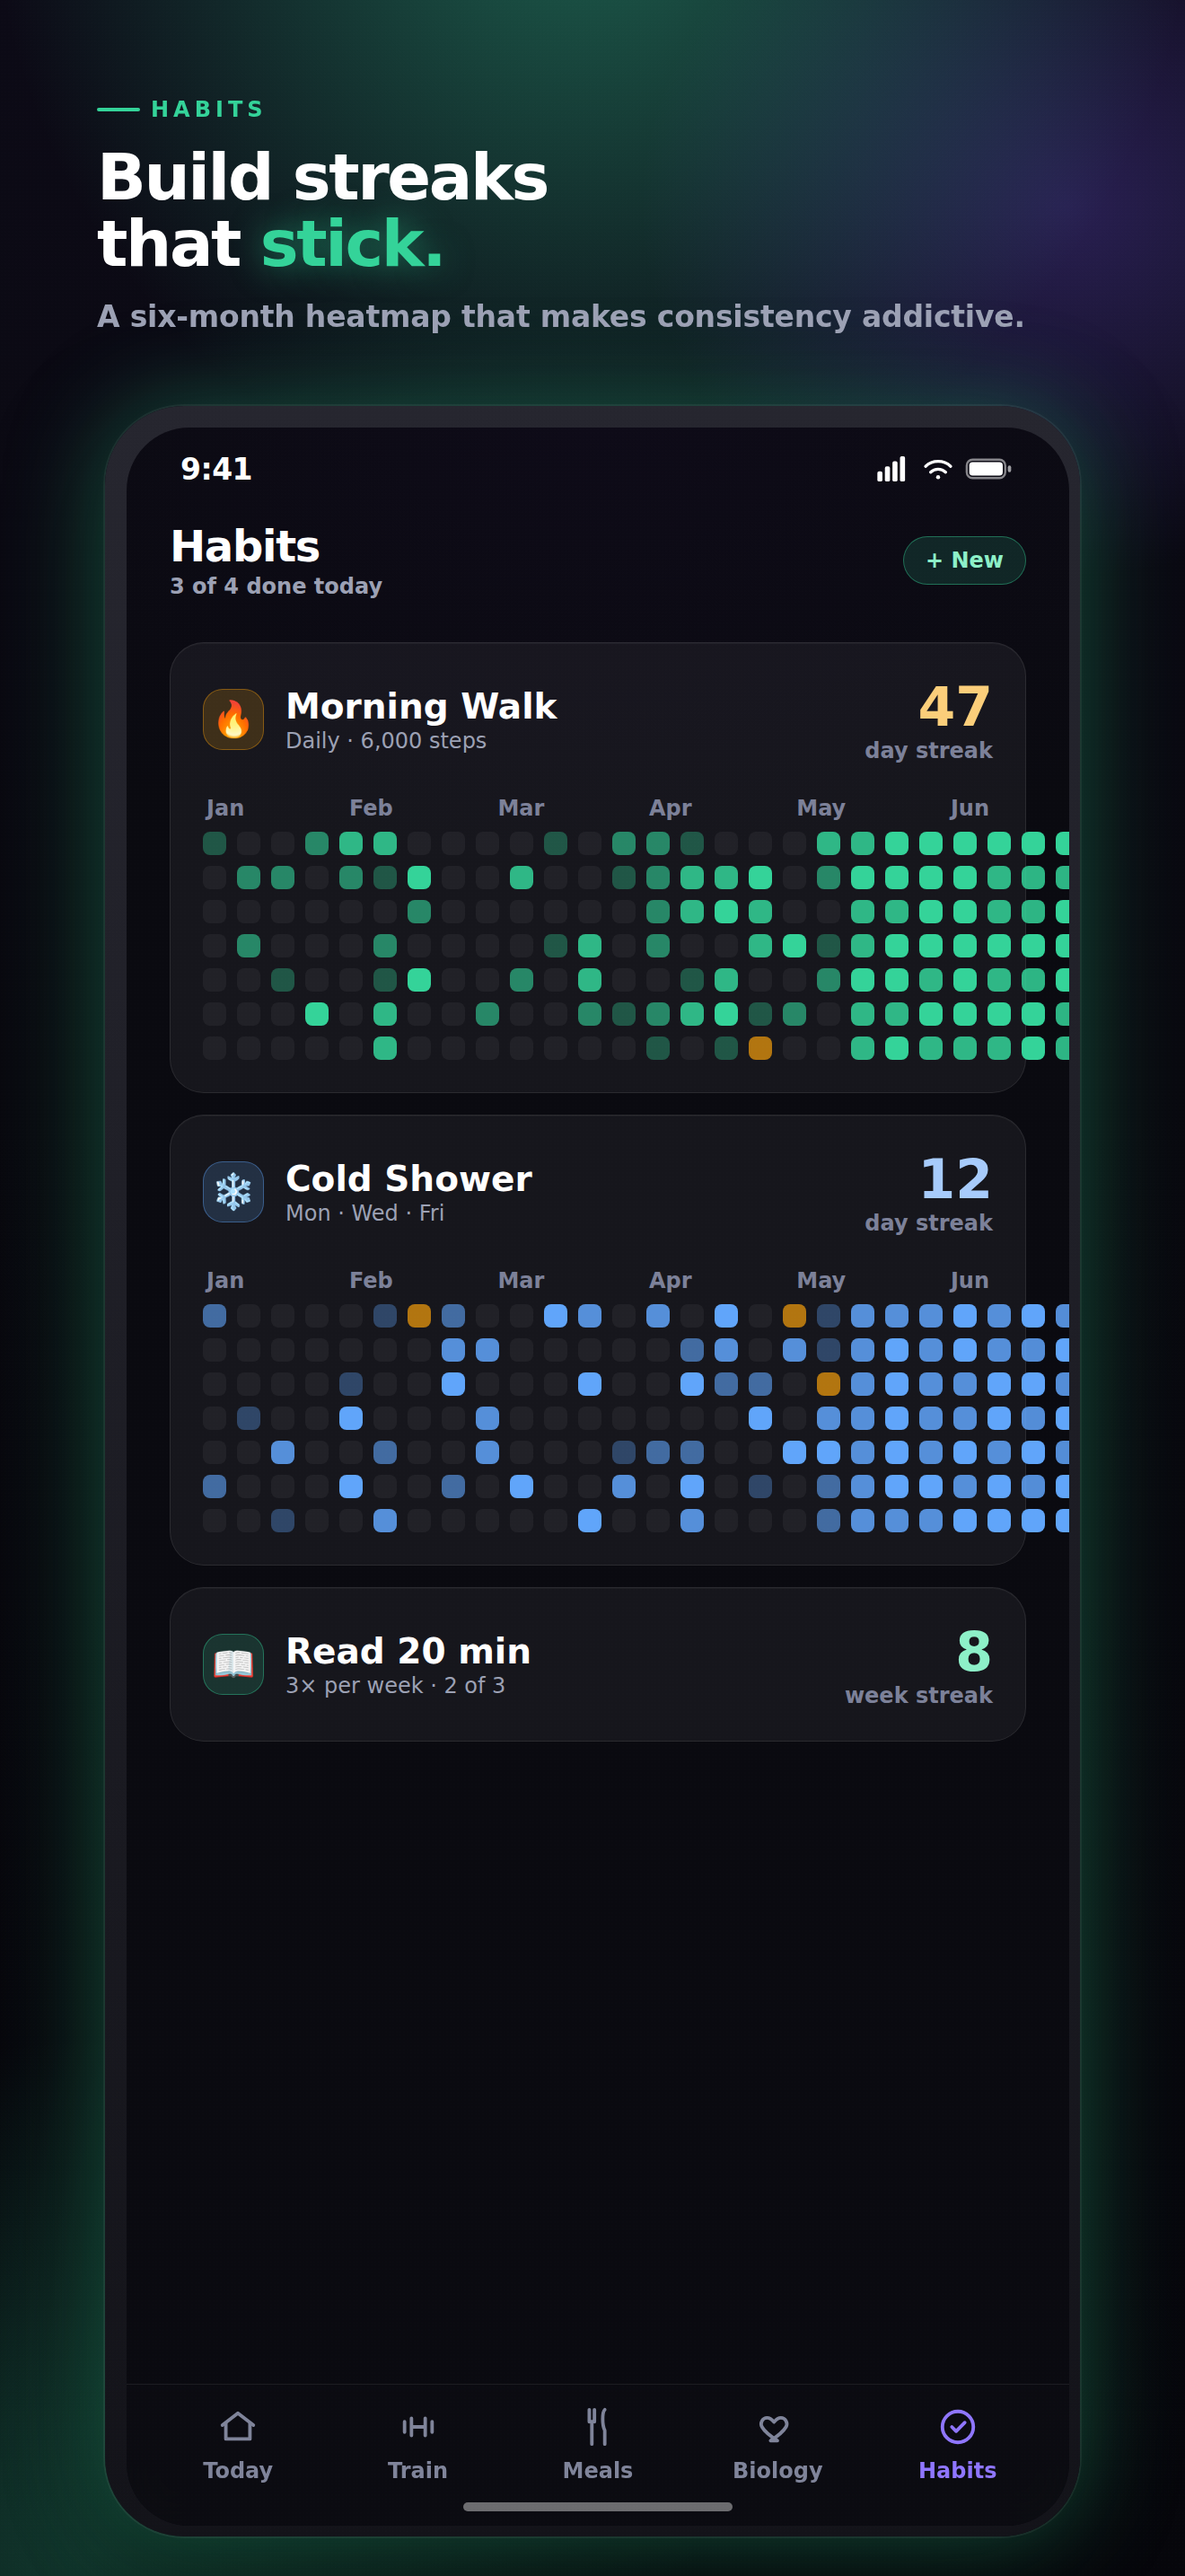
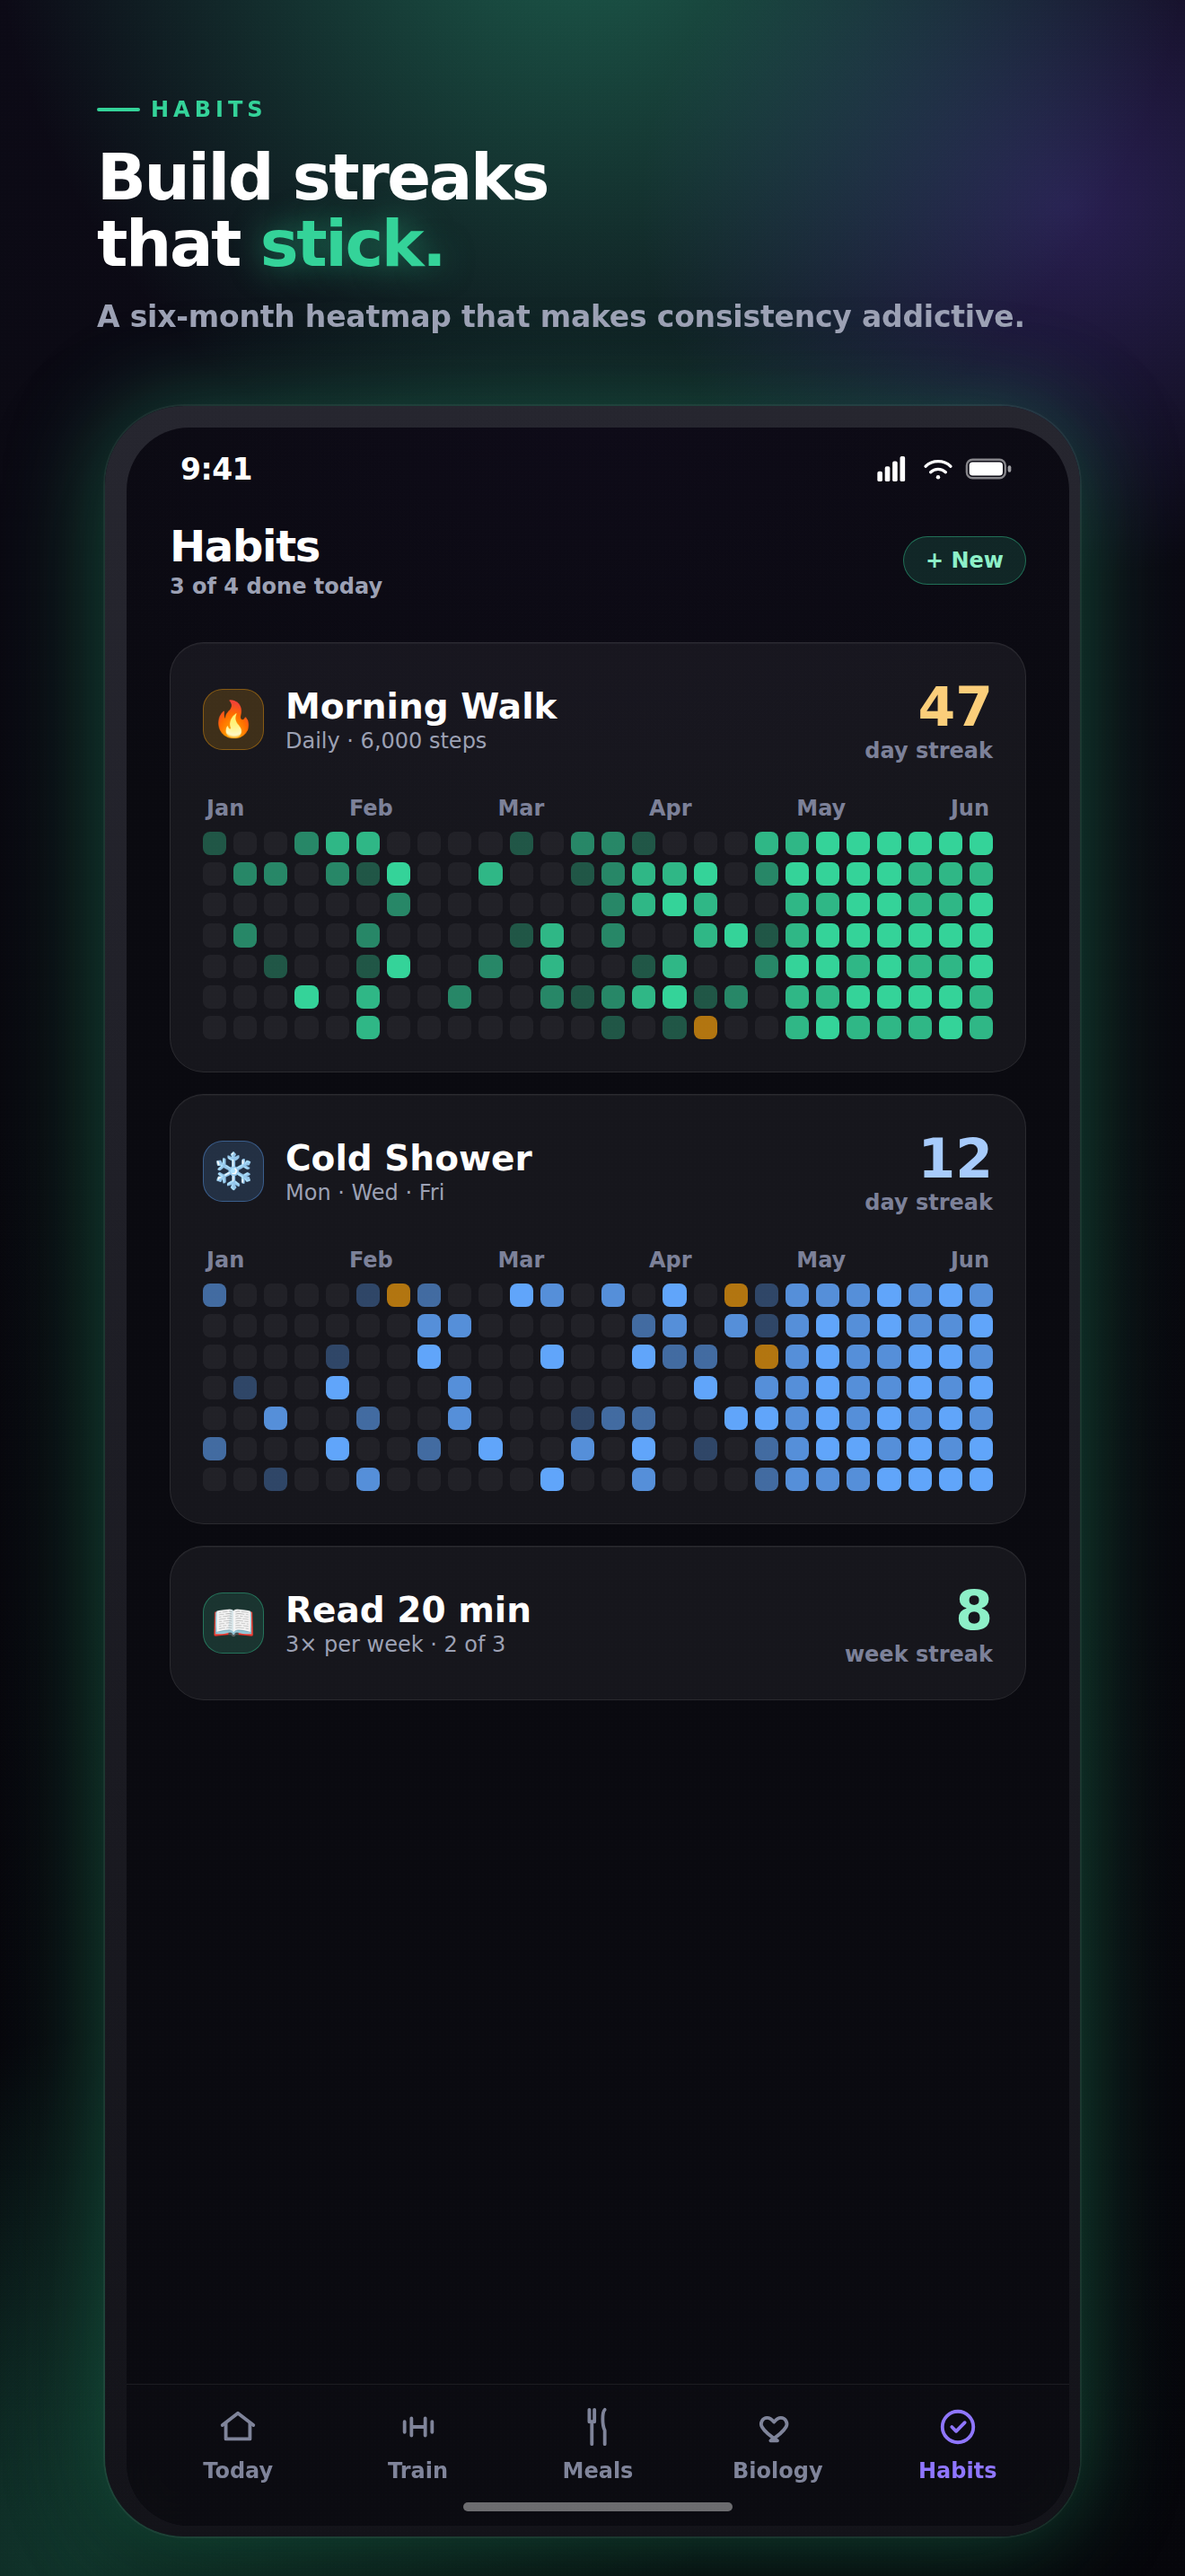
Grow pushes out of the row that was tapped, and see the clipping
Two list-detail pairs now use the iOS 18 zoom transition, so a peptide or
a protocol expands from the card under the finger instead of sliding in
over it. The protocol cards live in a separate view from the destination,
so the namespace travels down as a property.

The rest came from finally looking at a rendered screen. The habit
heatmap needed 976px inside an 880px card: 26 weeks at a fixed 26px cell
plus a 12px gap, so a season and a half of every heatmap was being cut off
by the phone bezel. Fluid columns fit whatever card they land in. The
adherence ring's label was 142px wide inside a 132px opening and collided
with its own arc.

Neither was catchable before, so measure.mjs now checks geometry as well
as colour. Both new checks are narrowed by their false positives rather
than left broad: overflow ignores absolutely-positioned children, because
the watch's digital crown is meant to stick out of the case, and the
contrast resolver hit-tests what is actually painted under the text
instead of walking ancestors.

That last one mattered. The gold level badge is an SVG circle painted as a
*sibling* of its own label, so no ancestor carried the gold and near-black
ink on a gold disc scored 1.04:1. Three failures that were never real —
and instead of anyone looking at them, check.sh had grown a threshold that
tolerated exactly three, which would have swallowed the next three genuine
ones too. Resolving SVG paint servers gives 3.31:1, which is real, and is
[…]

Changed region(s): [[0.1553, 0.3103, 0.9008, 0.6827], [0.1553, 0.5586, 0.1864, 0.5896]]

diff --git a/Peptide/Features/Protocols/ProtocolListView.swift b/Peptide/Features/Protocols/ProtocolListView.swift
@@ -16,6 +16,10 @@ struct ProtocolListView: View {
     // desyncing navigation state once a stack/library route was pushed.
     @State private var path = NavigationPath()
     @State private var sharingProtocol: PeptideProtocol?
+    /// Shared with every ProtocolSection so a card's push grows out of
+    /// the card itself. The sections are separate views, so the id has to
+    /// travel down rather than being declared where the rows are.
+    @Namespace private var zoom
 
     var body: some View {
         @Bindable var state = appState
@@ -58,7 +62,8 @@ struct ProtocolListView: View {
                                 ProtocolSection(
                                     title: "Active",
                                     protocols: dataStore.activeProtocols,
-                                    onShare: { sharingProtocol = $0 }
+                                    onShare: { sharingProtocol = $0 },
+                                    zoom: zoom
                                 )
                                 .sectionAppear(index: 2)
                             }
@@ -79,7 +84,8 @@ struct ProtocolListView: View {
                                 ProtocolSection(
                                     title: "Paused",
                                     protocols: dataStore.pausedProtocols,
-                                    onShare: { sharingProtocol = $0 }
+                                    onShare: { sharingProtocol = $0 },
+                                    zoom: zoom
                                 )
                                 .sectionAppear(index: 5)
                             }
@@ -88,7 +94,8 @@ struct ProtocolListView: View {
                                 ProtocolSection(
                                     title: "Completed",
                                     protocols: dataStore.completedProtocols,
-                                    onShare: { sharingProtocol = $0 }
+                                    onShare: { sharingProtocol = $0 },
+                                    zoom: zoom
                                 )
                                 .sectionAppear(index: 6)
                             }
@@ -140,6 +147,7 @@ struct ProtocolListView: View {
             }
             .navigationDestination(for: PeptideProtocol.self) { protocol_ in
                 ProtocolDetailView(protocol_: protocol_)
+                    .navigationTransition(.zoom(sourceID: protocol_.id, in: zoom))
             }
             .navigationDestination(for: CommunityStack.self) { stack in
                 CommunityStackDetailView(stack: stack)
@@ -237,6 +245,7 @@ private struct ProtocolSection: View {
     let title: String
     let protocols: [PeptideProtocol]
     let onShare: (PeptideProtocol) -> Void
+    let zoom: Namespace.ID
 
     var body: some View {
         VStack(alignment: .leading, spacing: Spacing.md) {
@@ -251,6 +260,7 @@ private struct ProtocolSection: View {
                     ProtocolCard(protocol_: protocol_)
                 }
                 .buttonStyle(.plain)
+                .matchedTransitionSource(id: protocol_.id, in: zoom)
                 .contextMenu {
                     Button {
                         onShare(protocol_)

diff --git a/Peptide/Features/Database/PeptideListView.swift b/Peptide/Features/Database/PeptideListView.swift
@@ -11,6 +11,11 @@ struct PeptideListView: View {
     var presentedModally = false
     @State private var viewModel = PeptideListViewModel(peptides: PeptideDatabase.shared)
     @State private var showCustomForm = false
+    /// Ties each row to the detail view it pushes, so the push grows out of
+    /// the tapped row instead of sliding in over it. Only the iPhone stack
+    /// uses it — the iPad split view swaps the detail column in place and has
+    /// no push to animate.
+    @Namespace private var zoom
 
     /// Built here rather than inline: a ternary whose branches are both
     /// trailing-closure `.init`s is a parse hazard, and the empty state
@@ -146,6 +151,7 @@ struct PeptideListView: View {
                 .toolbar { sidebarToolbar }
                 .navigationDestination(for: Peptide.self) { peptide in
                     PeptideDetailView(peptide: peptide)
+                        .navigationTransition(.zoom(sourceID: peptide.id, in: zoom))
                 }
                 .sheet(isPresented: $showCustomForm) {
                     CustomPeptideForm { peptide in
@@ -244,6 +250,7 @@ struct PeptideListView: View {
                 PeptideRow(peptide: peptide)
             }
             .buttonStyle(ScalePressStyle(pressedScale: 0.98))
+            .matchedTransitionSource(id: peptide.id, in: zoom)
             .transition(.scale(scale: 0.97).combined(with: .opacity))
         } else {
             Button {

diff --git a/marketing/app-store/screens/07-protocols.html b/marketing/app-store/screens/07-protocols.html
@@ -25,7 +25,7 @@
             <div class="col gap" style="gap:12px;"><div class="row gap"><span class="chip violet">BPC-157 · 250 mcg</span><span class="chip mint">TB-500 · 2 mg</span></div><div class="chip" style="align-self:flex-start;">📑 4 research citations</div></div>
             <div style="position:relative;width:180px;height:180px;flex:none;">
               <svg width="180" height="180" viewBox="0 0 180 180"><circle cx="90" cy="90" r="74" fill="none" stroke="rgba(255,255,255,0.1)" stroke-width="16"/><circle cx="90" cy="90" r="74" fill="none" stroke="#34D399" stroke-width="16" stroke-linecap="round" stroke-dasharray="465" stroke-dashoffset="60" transform="rotate(-90 90 90)"/></svg>
-              <div style="position:absolute;inset:0;display:flex;flex-direction:column;align-items:center;justify-content:center;"><div style="font-size:48px;font-weight:800;">87<span style="font-size:24px;">%</span></div><div class="lab" style="font-size:24px;">adherence</div></div>
+              <div style="position:absolute;inset:0;display:flex;flex-direction:column;align-items:center;justify-content:center;"><div style="font-size:48px;font-weight:800;">87<span style="font-size:24px;">%</span></div><div class="lab" style="font-size:20px;">adherence</div></div>
             </div>
           </div>
         </div>

diff --git a/marketing/app-store/assets/atlas.css b/marketing/app-store/assets/atlas.css
@@ -94,8 +94,12 @@ body{font-family:"Inter",system-ui,-apple-system,sans-serif;background:var(--bg-
 .tile .unit{font-size:24px;color:var(--muted);font-weight:600;}
 .bar{height:20px;border-radius:100px;background:rgba(255,255,255,0.09);overflow:hidden;}
 .bar>i{display:block;height:100%;border-radius:100px;}
-.heat{display:grid;grid-auto-flow:column;grid-template-rows:repeat(7,1fr);gap:12px;}
-.heat span{width:26px;height:26px;border-radius:8px;background:rgba(255,255,255,0.05);}
+/* Columns are fluid, not fixed: 26 weeks at a hard 26px + 12px gap needed
+   976px inside an 880px card, so a season and a half of every heatmap was
+   being clipped by the phone bezel. 1fr columns make the grid fit whatever
+   card it lands in, and aspect-ratio keeps the cells square. */
+.heat{display:grid;grid-auto-flow:column;grid-template-rows:repeat(7,auto);grid-auto-columns:1fr;gap:8px;}
+.heat span{aspect-ratio:1;border-radius:8px;background:rgba(255,255,255,0.05);}
 .hero{font-weight:800;letter-spacing:-6px;line-height:.9;}
 .spark{position:absolute;border-radius:3px;opacity:.95;}
 .pulse{position:absolute;border-radius:50%;border:2px solid color-mix(in srgb,var(--accent) 30%,transparent);}

diff --git a/marketing/app-store/screens/02-score.html b/marketing/app-store/screens/02-score.html
@@ -32,7 +32,7 @@
           <span class="spark" style="top:104px;right:60px;width:12px;height:12px;background:var(--mint);border-radius:50%;"></span>
           <svg width="470" height="470" viewBox="0 0 470 470">
             <defs>
-              <radialGradient id="medal" cx="0.4" cy="0.32" r="0.85"><stop offset="0" stop-color="#FFE39A"/><stop offset="0.45" stop-color="#F5A623"/><stop offset="1" stop-color="#7B3FE4"/></radialGradient>
+              <radialGradient id="medal" cx="0.4" cy="0.32" r="0.85"><stop offset="0" stop-color="#FFE39A"/><stop offset="0.45" stop-color="#F5A623"/><stop offset="1" stop-color="#B47BE8"/></radialGradient>
               <linearGradient id="arc" x1="0" y1="0" x2="1" y2="1"><stop offset="0" stop-color="#C9BCFF"/><stop offset="1" stop-color="#8F76FF"/></linearGradient>
               <filter id="mglow" x="-40%" y="-40%" width="180%" height="180%"><feGaussianBlur stdDeviation="15" result="b"/><feMerge><feMergeNode in="b"/><feMergeNode in="SourceGraphic"/></feMerge></filter>
             </defs>

diff --git a/marketing/app-store/screens-watch/01-score.html b/marketing/app-store/screens-watch/01-score.html
@@ -8,7 +8,7 @@
     <div style="position:relative;width:252px;height:252px;">
       <svg width="252" height="252" viewBox="0 0 252 252">
         <defs>
-          <radialGradient id="medal" cx="0.4" cy="0.32" r="0.85"><stop offset="0" stop-color="#FFE39A"/><stop offset="0.45" stop-color="#F5A623"/><stop offset="1" stop-color="#7B3FE4"/></radialGradient>
+          <radialGradient id="medal" cx="0.4" cy="0.32" r="0.85"><stop offset="0" stop-color="#FFE39A"/><stop offset="0.45" stop-color="#F5A623"/><stop offset="1" stop-color="#B47BE8"/></radialGradient>
           <linearGradient id="arc" x1="0" y1="0" x2="1" y2="1"><stop offset="0" stop-color="#C9BCFF"/><stop offset="1" stop-color="#7B5CFF"/></linearGradient>
           <filter id="g" x="-40%" y="-40%" width="180%" height="180%"><feGaussianBlur stdDeviation="8" result="b"/><feMerge><feMergeNode in="b"/><feMergeNode in="SourceGraphic"/></feMerge></filter>
         </defs>
